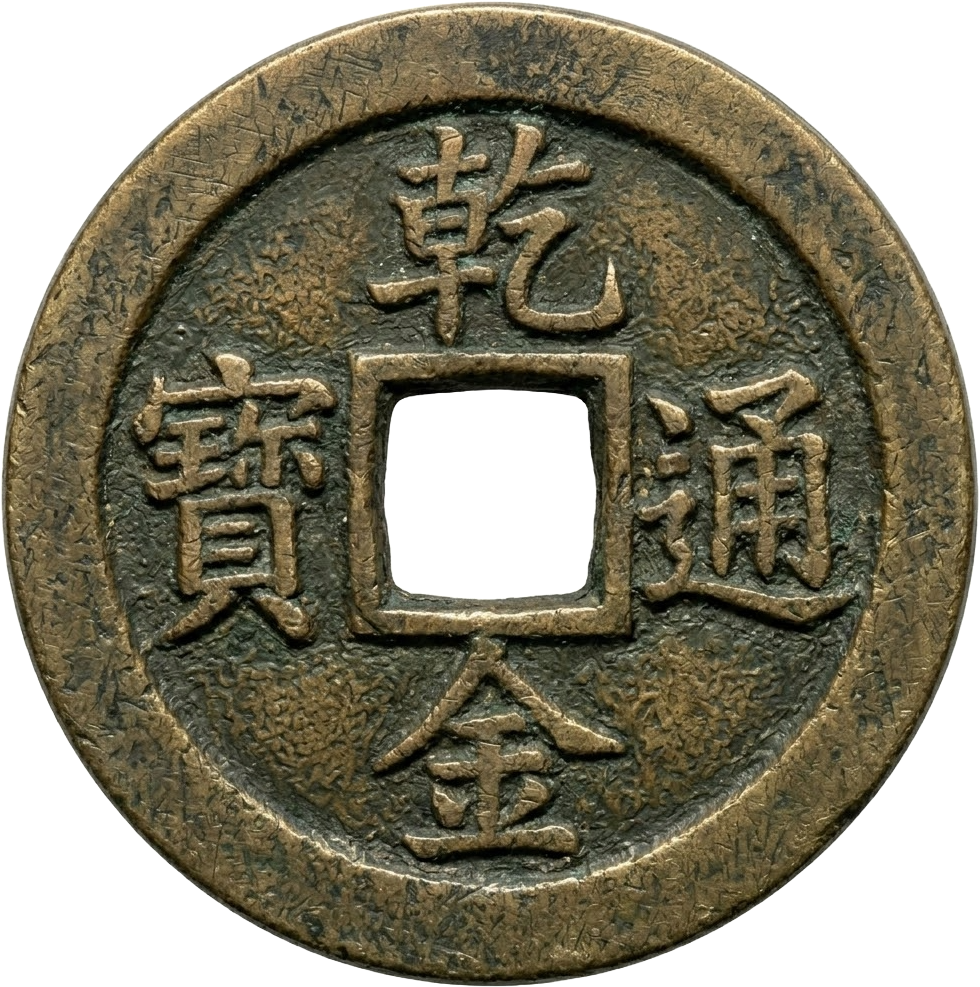
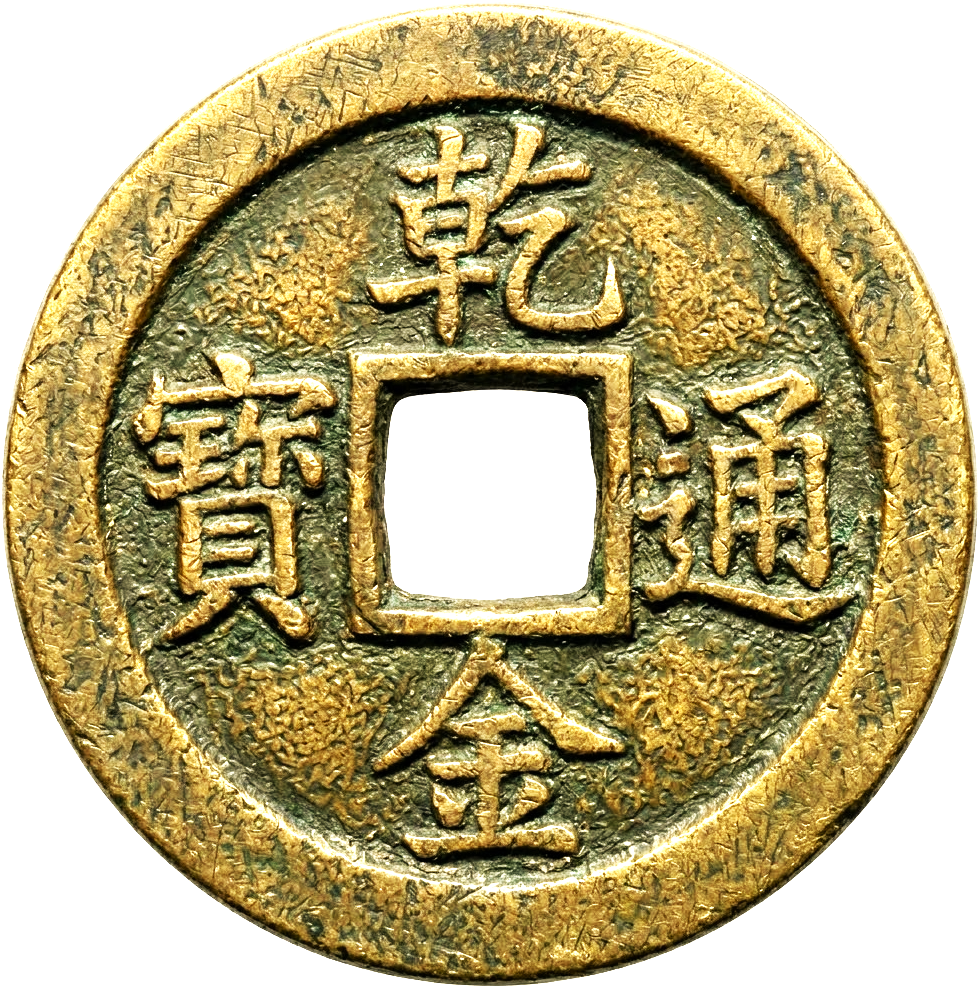
brighter

diff --git a/src/engine/CastingManager.js b/src/engine/CastingManager.js
@@ -29,26 +29,32 @@ export class CastingManager {
         this.camera.lookAt(0, 0, 0);
 
         this.renderer = new THREE.WebGLRenderer({ antialias: true, alpha: true });
+        this.renderer.setClearColor(0x000000, 1);
         this.renderer.setSize(this.container.clientWidth, this.container.clientHeight);
         this.renderer.setPixelRatio(window.devicePixelRatio);
         this.renderer.shadowMap.enabled = true;
         this.container.appendChild(this.renderer.domElement);
 
         // Lighting for premium look
-        const ambientLight = new THREE.AmbientLight(0xffffff, 0.6);
+        const ambientLight = new THREE.AmbientLight(0xffffff, 1.2);
         this.scene.add(ambientLight);
 
-        const spotLight = new THREE.SpotLight(0xffffff, 1.5);
+        // Add hemisphere light for natural fill and better color representation
+        const hemiLight = new THREE.HemisphereLight(0xffffff, 0x444444, 0.8);
+        hemiLight.position.set(0, 20, 0);
+        this.scene.add(hemiLight);
+
+        const spotLight = new THREE.SpotLight(0xffffff, 2.5);
         spotLight.position.set(5, 20, 10);
         spotLight.angle = Math.PI / 4;
         spotLight.penumbra = 0.5;
-        spotLight.decay = 2;
+        spotLight.decay = 1.5;
         spotLight.distance = 200;
         spotLight.castShadow = true;
         this.scene.add(spotLight);
 
-        // Add a back-light to catch edges
-        const backLight = new THREE.PointLight(0xffd700, 0.8);
+        // Add a back-light to catch edges and provide depth
+        const backLight = new THREE.PointLight(0xffd700, 1.2);
         backLight.position.set(-5, 5, -5);
         this.scene.add(backLight);
 
@@ -100,12 +106,12 @@ export class CastingManager {
         wallRight.position.set(10, 0, 0);
         this.world.addBody(wallRight);
 
-        // Visual floor (decorative)
-        const floorGeo = new THREE.PlaneGeometry(20, 20);
+        // Visual floor (decorative, keep dark for pure black look)
+        const floorGeo = new THREE.PlaneGeometry(100, 100);
         const floorMat = new THREE.MeshStandardMaterial({
-            color: 0x1a1b26,
-            roughness: 0.8,
-            metalness: 0.2
+            color: 0x000000,
+            roughness: 1.0,
+            metalness: 0.0
         });
         const floor = new THREE.Mesh(floorGeo, floorMat);
         floor.rotation.x = -Math.PI / 2;
@@ -115,8 +121,8 @@ export class CastingManager {
 
     createCoins() {
         const loader = new THREE.TextureLoader();
-        const frontTex = loader.load('/assets/coins/coin_front.png');
-        const backTex = loader.load('/assets/coins/coin_back.png');
+        const frontTex = loader.load('/assets/coins/money_front_bright.png');
+        const backTex = loader.load('/assets/coins/money_back_bright.png');
         const edgeTex = loader.load('/assets/coins/coin_edge.png');
         edgeTex.wrapS = THREE.RepeatWrapping;
         edgeTex.repeat.set(8, 1); // Tile horizontally for the edge
@@ -126,25 +132,25 @@ export class CastingManager {
 
         // Materials that match the weathered bronze look
         const sideMat = new THREE.MeshStandardMaterial({
-            color: 0x3d2e1f, // Darker, aged bronze to blend with the textures
-            metalness: 0.5,
-            roughness: 0.7,
-            emissive: 0x1a1510,
-            emissiveIntensity: 0.02
+            color: 0x5a4632, // Lighter, warmer aged bronze
+            metalness: 0.7,
+            roughness: 0.5,
+            emissive: 0x2a2015,
+            emissiveIntensity: 0.1 // Added subtle inner glow for better focus
         });
         const faceMatYang = new THREE.MeshStandardMaterial({
             map: backTex,
-            metalness: 0.6,
-            roughness: 0.45,
+            metalness: 0.7,
+            roughness: 0.35,
             bumpMap: backTex,
-            bumpScale: 0.02
+            bumpScale: 0.05
         });
         const faceMatYin = new THREE.MeshStandardMaterial({
             map: frontTex,
-            metalness: 0.6,
-            roughness: 0.45,
+            metalness: 0.7,
+            roughness: 0.35,
             bumpMap: frontTex,
-            bumpScale: 0.02
+            bumpScale: 0.05
         });
 
         const materials = [sideMat, faceMatYang, faceMatYin];
